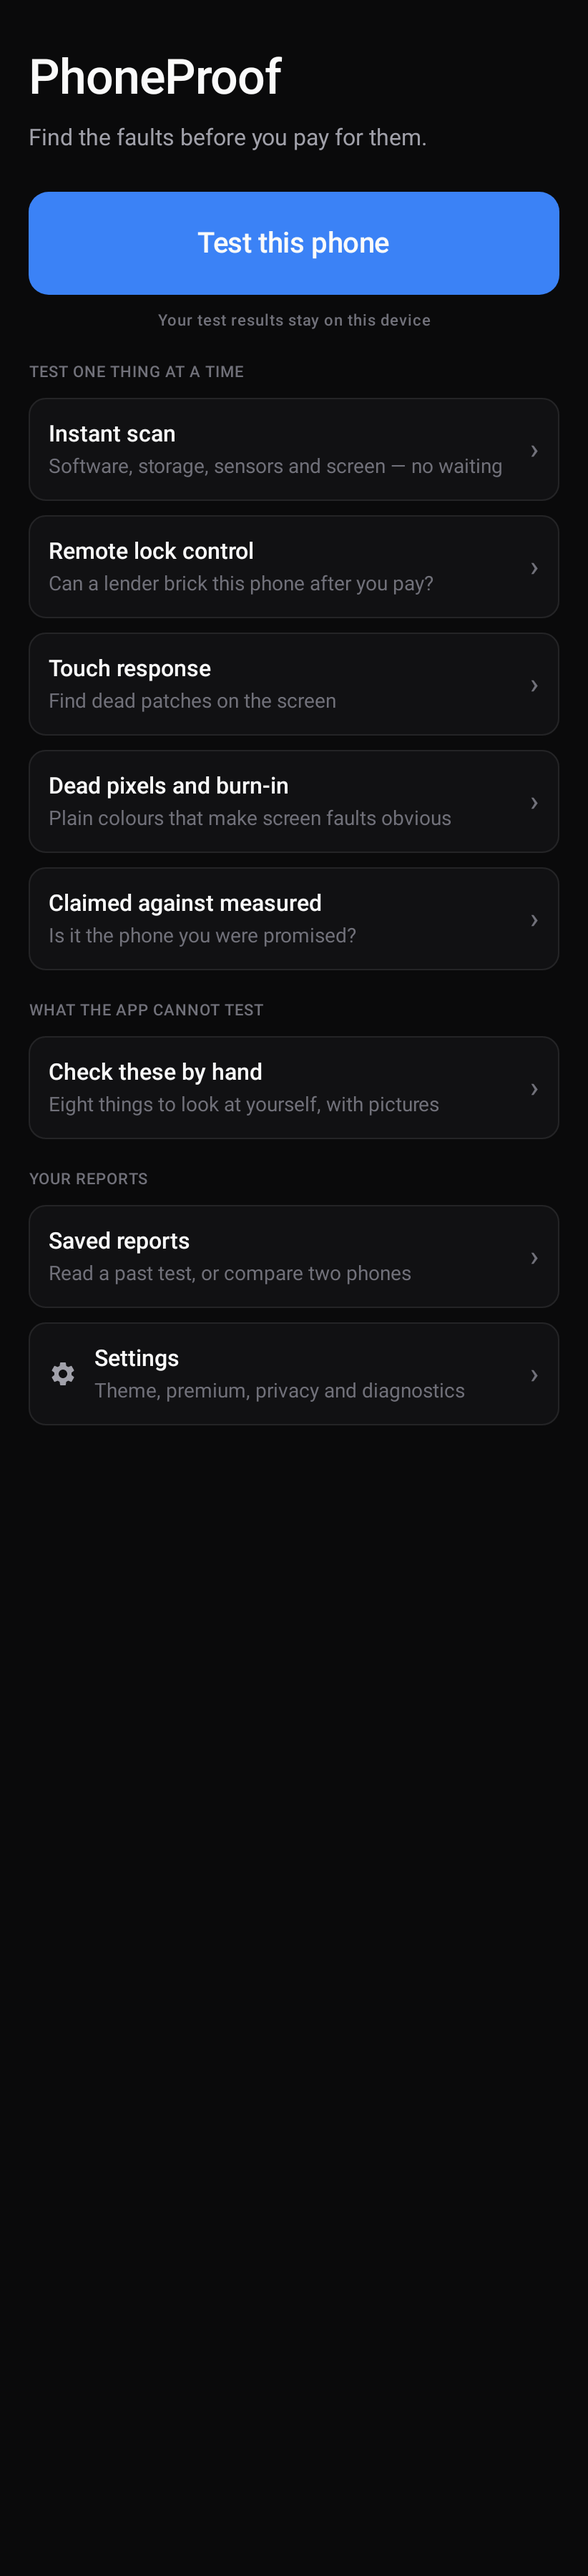
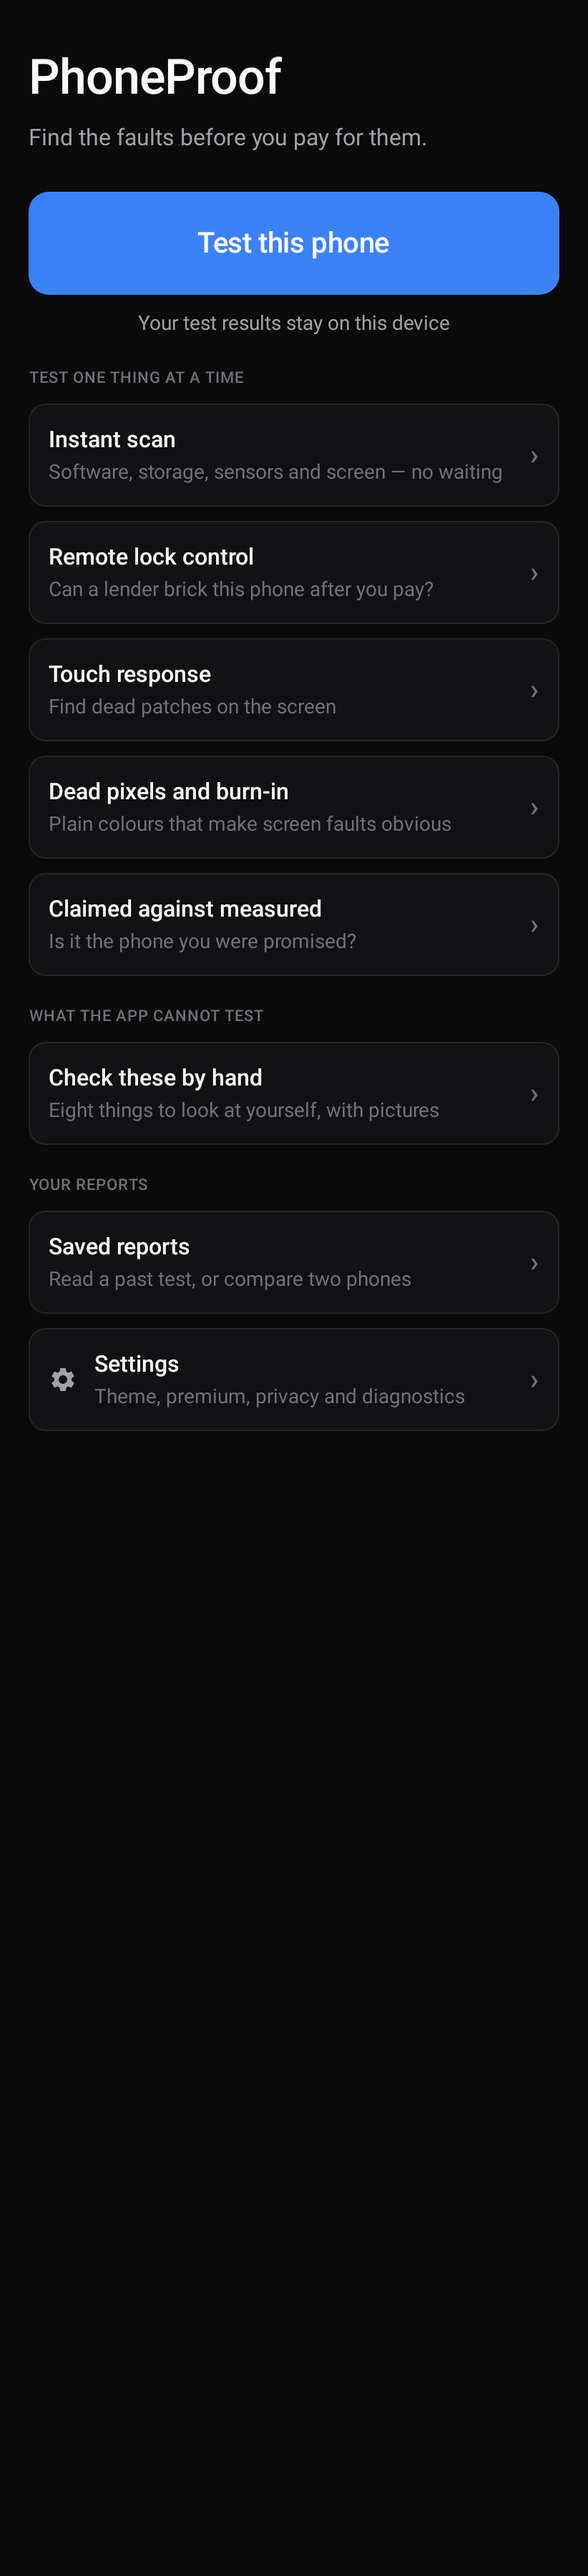
Make the small print readable, and pulse the trial counter
Three reported places where text was too small to read, and one piece of
dead code removed.

Home: the scan counter goes from labelSmall to titleSmall and the privacy
line from labelSmall to bodyMedium in a stronger colour. Both were reported
as difficult to read, and they sit under the primary action where a new user
looks first.

The counter pulses rather than flashes, which is a deliberate departure from
what was asked for. A continuous flash was requested so the line gets
noticed. WCAG 2.3.1 puts the photosensitive-seizure threshold at three
flashes per second, and this text sits on the first screen of the app where
it would run for as long as the app is open -- so a blink here is the worst
place in the whole product to put one. A slow fade between two colours draws
the eye without ever going dark, at the same 0.7 Hz already used for a FAIL
card, which is the only other looping animation in this codebase.

The privacy line is left static on purpose. Only one thing on a screen can
be the thing that moves, and a privacy statement that blinks reads as an
advertisement for itself.

Pattern screen: the colour name goes to titleMedium and the "what to look
for" line to bodyMedium, both in near-full-strength ink instead of the 45%
wash. That sentence is the most useful text in the feature -- it is what
tells someone that stuck pixels are invisible on white -- and it was being
read at arm's length with the phone tilted to catch the light, which is the
[…]

diff --git a/feature/home/src/main/kotlin/com/phoneproof/feature/home/HomeScreen.kt b/feature/home/src/main/kotlin/com/phoneproof/feature/home/HomeScreen.kt
@@ -1,5 +1,11 @@
 package com.phoneproof.feature.home
 
+import androidx.compose.animation.core.FastOutSlowInEasing
+import androidx.compose.animation.core.RepeatMode
+import androidx.compose.animation.core.animateFloat
+import androidx.compose.animation.core.infiniteRepeatable
+import androidx.compose.animation.core.rememberInfiniteTransition
+import androidx.compose.animation.core.tween
 import androidx.compose.foundation.background
 import androidx.compose.foundation.border
 import androidx.compose.foundation.clickable
@@ -26,8 +32,10 @@ import androidx.compose.material3.Icon
 import androidx.compose.material3.MaterialTheme
 import androidx.compose.material3.Text
 import androidx.compose.runtime.Composable
+import androidx.compose.runtime.getValue
 import androidx.compose.ui.Alignment
 import androidx.compose.ui.Modifier
+import androidx.compose.ui.graphics.lerp
 import androidx.compose.ui.text.style.TextAlign
 import androidx.compose.ui.unit.dp
 import com.phoneproof.core.designsystem.theme.PhoneProofTheme
@@ -102,20 +110,37 @@ fun HomeScreen(
         }
 
         if (freeScansLeft != null) {
+            // Pulsed rather than flashed, and this is a deliberate departure from what was asked for.
+            //
+            // A continuous flash was requested so the line gets noticed. WCAG 2.3.1 puts the
+            // photosensitive-seizure threshold at three flashes per second, and this text sits on the
+            // first screen of the app where it would run for as long as the app is open — so a blink
+            // here is the worst place in the product to put one. A slow fade between two colours
+            // draws the eye without ever going dark, at the same 0.7 Hz already used for a FAIL card,
+            // which is the only other looping animation in this codebase.
+            val pulse by rememberInfiniteTransition(label = "trialPulse").animateFloat(
+                initialValue = 0f,
+                targetValue = 1f,
+                animationSpec = infiniteRepeatable(
+                    animation = tween(durationMillis = 1400, easing = FastOutSlowInEasing),
+                    repeatMode = RepeatMode.Reverse,
+                ),
+                label = "trialPulseValue",
+            )
+            val restColour = if (freeScansLeft == 0) {
+                PhoneProofTheme.colors.caution
+            } else {
+                PhoneProofTheme.colors.accent
+            }
             Text(
                 text = when (freeScansLeft) {
                     0 -> "Free trial used up — see the plans in Settings"
                     1 -> "1 scan left on the free trial"
                     else -> "$freeScansLeft scans left on the free trial"
                 },
-                style = MaterialTheme.typography.labelSmall,
-                // Amber at zero so it reads as a state to act on, not an error. Nothing has gone
-                // wrong; the trial has ended.
-                color = if (freeScansLeft == 0) {
-                    PhoneProofTheme.colors.caution
-                } else {
-                    PhoneProofTheme.colors.textSecondary
-                },
+                // titleSmall, up from labelSmall. This was the line reported as hard to read.
+                style = MaterialTheme.typography.titleSmall,
+                color = lerp(restColour, PhoneProofTheme.colors.textPrimary, pulse),
                 modifier = Modifier.fillMaxWidth(),
                 textAlign = TextAlign.Center,
             )
@@ -126,8 +151,10 @@ fun HomeScreen(
             // advertising ID does leave the device; claiming "nothing leaves this device" would be
             // false, and overclaiming privacy is worse than not claiming it.
             text = "Your test results stay on this device",
-            style = MaterialTheme.typography.labelSmall,
-            color = PhoneProofTheme.colors.textTertiary,
+            // bodyMedium, up from labelSmall. Left static: a privacy statement that blinks reads as
+            // an advertisement for itself, and only one thing on a screen can be the thing moving.
+            style = MaterialTheme.typography.bodyMedium,
+            color = PhoneProofTheme.colors.textSecondary,
             modifier = Modifier.fillMaxWidth(),
             textAlign = TextAlign.Center,
         )

diff --git a/feature/screentest/src/main/kotlin/com/phoneproof/feature/screentest/ScreenTestScreen.kt b/feature/screentest/src/main/kotlin/com/phoneproof/feature/screentest/ScreenTestScreen.kt
@@ -152,6 +152,15 @@ private fun PatternLayout(
         // The only thing drawn over the pattern, kept small and pushed into a corner. Anything
         // larger would hide the very pixels the buyer is inspecting.
         val ink = if (pattern.isLight) Color.Black.copy(alpha = 0.45f) else Color.White.copy(alpha = 0.5f)
+
+        // A second, stronger ink for the two lines that actually have to be read. The faint wash is
+        // right for "tap for the next colour", which the buyer only needs once, and wrong for the
+        // instruction telling them what a fault looks like on this particular colour.
+        val strongInk = if (pattern.isLight) {
+            Color.Black.copy(alpha = 0.82f)
+        } else {
+            Color.White.copy(alpha = 0.88f)
+        }
         Column(
             modifier = Modifier
                 .align(Alignment.BottomCenter)
@@ -160,10 +169,13 @@ private fun PatternLayout(
             horizontalAlignment = Alignment.CenterHorizontally,
             verticalArrangement = Arrangement.spacedBy(2.dp),
         ) {
+            // titleMedium, up from labelSmall, and in full-strength ink rather than the 45% wash the
+            // rest of the hint uses. This is read at arm's length while the phone is tilted to catch
+            // the light, which is the worst possible reading condition in the app.
             Text(
                 text = "${pattern.name} · ${state.position} of ${state.total}",
-                style = MaterialTheme.typography.labelSmall,
-                color = ink,
+                style = MaterialTheme.typography.titleMedium,
+                color = strongInk,
             )
             // lookFor was written for all six patterns and then never rendered, while its own
             // docstring claimed it was shown. So the pattern screen told the buyer nothing about
@@ -171,8 +183,10 @@ private fun PatternLayout(
             // subpixel the eye notices most. It is the most useful line on the screen.
             Text(
                 text = pattern.lookFor,
-                style = MaterialTheme.typography.labelSmall,
-                color = ink,
+                // bodyMedium, up from labelSmall. This is the most useful sentence on the screen —
+                // it is what tells the buyer that stuck pixels are invisible on white.
+                style = MaterialTheme.typography.bodyMedium,
+                color = strongInk,
                 textAlign = TextAlign.Center,
                 modifier = Modifier.padding(horizontal = 24.dp),
             )

diff --git a/feature/reports/src/main/kotlin/com/phoneproof/feature/reports/ReportsScreen.kt b/feature/reports/src/main/kotlin/com/phoneproof/feature/reports/ReportsScreen.kt
@@ -64,8 +64,10 @@ fun ReportsScreen(
             Spacer(Modifier.height(4.dp))
             Text(
                 text = retentionLine(state),
-                style = MaterialTheme.typography.labelSmall,
-                color = PhoneProofTheme.colors.textTertiary,
+                // bodyMedium, up from labelSmall. This line explains why an old report disappeared,
+                // which is the one thing on this screen someone comes back confused about.
+                style = MaterialTheme.typography.bodyMedium,
+                color = PhoneProofTheme.colors.textSecondary,
             )
         }
         Spacer(Modifier.height(16.dp))
@@ -197,7 +199,9 @@ private fun ReportRow(
             )
             Text(
                 text = dateLabel,
-                style = MaterialTheme.typography.labelSmall,
+                // The date separates two reports of the same phone, so it has to be readable rather
+                // than decorative.
+                style = MaterialTheme.typography.bodyMedium,
                 color = PhoneProofTheme.colors.textTertiary,
             )
         }

diff --git a/feature/touchgrid/src/main/kotlin/com/phoneproof/feature/touchgrid/TouchGridState.kt b/feature/touchgrid/src/main/kotlin/com/phoneproof/feature/touchgrid/TouchGridState.kt
@@ -44,8 +44,9 @@ data class TouchGridUiState(
 ) {
     val cellCount: Int get() = spec.cellCount
     val touchedCount: Int get() = touchedCells.size
-    /** Over every cell, reachable or not. Kept for anything that wants the raw figure. */
-    val coverageRatio: Float get() = touchedCount.toFloat() / cellCount.toFloat()
+    // coverageRatio lived here with a comment saying it was "kept for anything that wants the raw
+    // figure". Nothing wanted it, in production or in a test. Removed rather than left as a second,
+    // subtly wrong way to measure coverage sitting next to the right one.
 
     /** Covered cells among those that can actually be reached. */
     val testableTouchedCount: Int get() = (touchedCells - reservedCells).size
